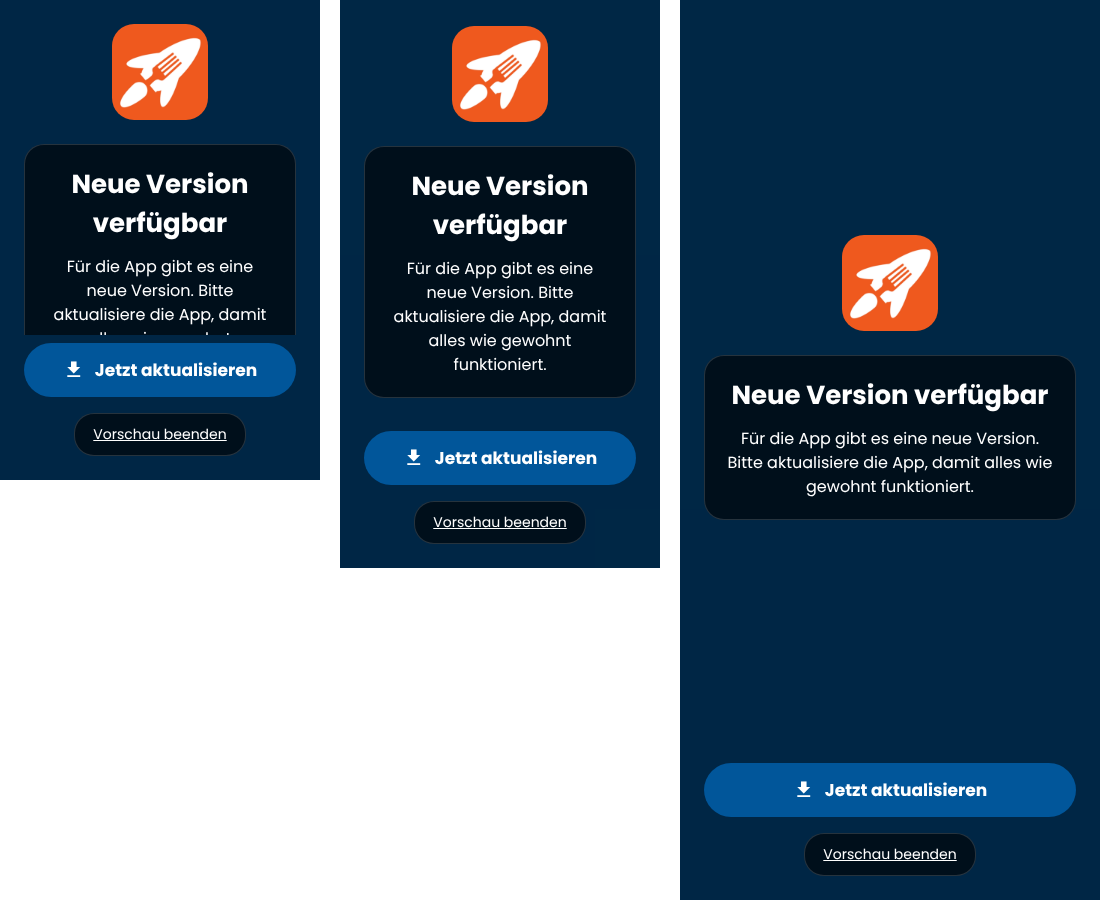
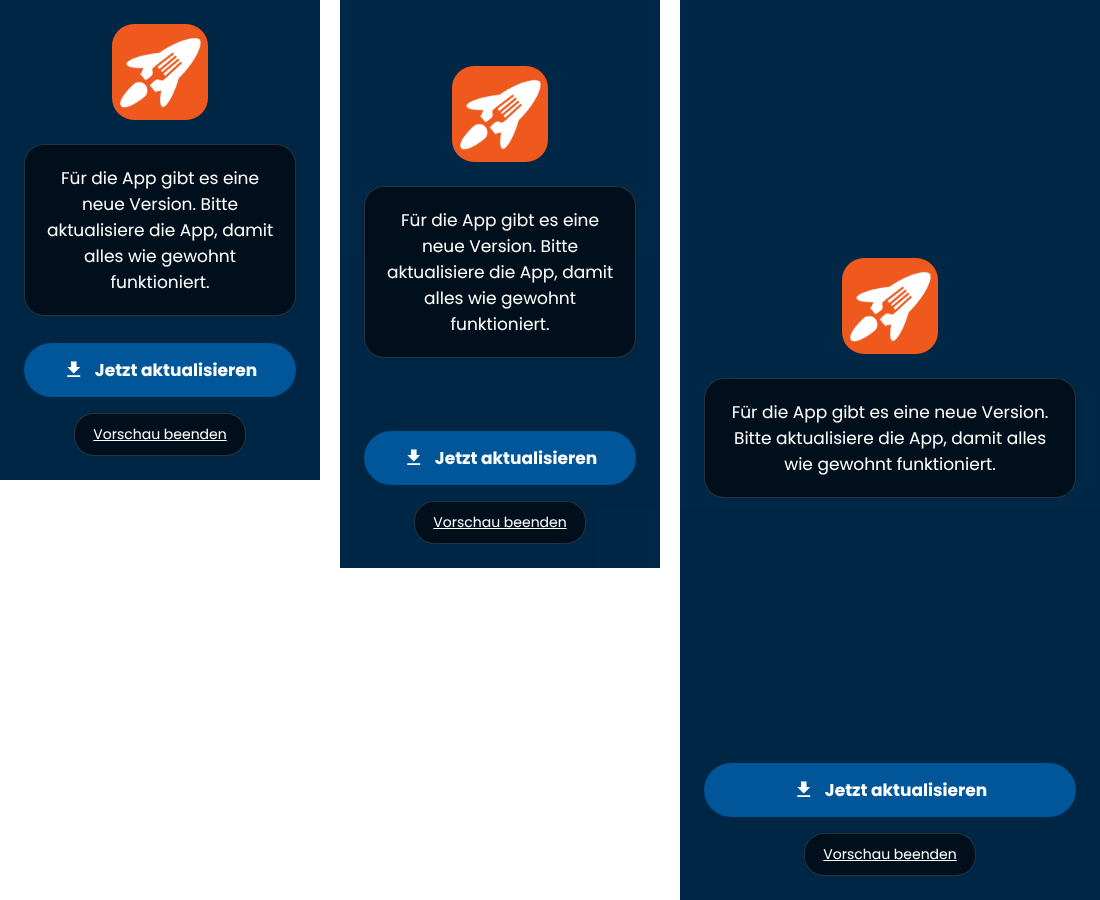
Outdated app notice without a heading
Only the message stays on the panel, slightly larger. The heading's
translation key app_outdated_title is gone. Without it the notice fits
completely on a 320x480 display.

Claude-Session: https://claude.ai/code/session_011iLKqujifqLmqzjLgMZRXE

Changed region(s): [[0.6182, 0.2489, 0.9891, 0.5911], [0.3091, 0.0311, 0.5873, 0.4667], [0.0, 0.1867, 0.2782, 0.3733]]

diff --git a/apps/frontend/app/components/AppOutdatedScreen/AppOutdatedScreen.tsx b/apps/frontend/app/components/AppOutdatedScreen/AppOutdatedScreen.tsx
@@ -69,7 +69,6 @@ export const AppOutdatedScreen = ({ visible, storeUrl, onClosePreview }: AppOutd
 					<View style={styles.content}>
 						<Image source={iconSource} style={styles.appIcon} />
 						<View style={styles.panel}>
-							<Text style={styles.title}>{translate(TranslationKeys.app_outdated_title)}</Text>
 							<Text style={styles.message}>{translate(TranslationKeys.app_outdated_message)}</Text>
 						</View>
 					</View>
@@ -141,16 +140,9 @@ const styles = StyleSheet.create({
 		borderColor: PANEL_BORDER_COLOR,
 		backgroundColor: PANEL_COLOR,
 	},
-	title: {
-		fontSize: 26,
-		fontFamily: 'Poppins_700Bold',
-		color: TEXT_COLOR,
-		textAlign: 'center',
-		marginBottom: 12,
-	},
 	message: {
-		fontSize: 16,
-		lineHeight: 24,
+		fontSize: 17,
+		lineHeight: 26,
 		fontFamily: 'Poppins_400Regular',
 		color: TEXT_COLOR,
 		textAlign: 'center',

diff --git a/apps/frontend/app/config.ts b/apps/frontend/app/config.ts
@@ -274,7 +274,8 @@ export function getVersionPatch() {
         //      canteen image), without the version line
         // 152: outdated app notice inside the safe area, store button pinned to the bottom,
         //      icon and text scroll above it on small displays
-        return 152;
+        // 153: outdated app notice without a heading, only the message on the panel
+        return 153;
 }
 
 export function getVersionInternalForAppsettingsScreen() {

diff --git a/apps/frontend/app/locales/keys.ts b/apps/frontend/app/locales/keys.ts
@@ -939,7 +939,6 @@ export const TranslationKeys = {
 	app_outdated_check_result: 'app_outdated_check_result',
 	app_outdated_show_preview: 'app_outdated_show_preview',
 	app_outdated_end_preview: 'app_outdated_end_preview',
-	app_outdated_title: 'app_outdated_title',
 	app_outdated_message: 'app_outdated_message',
 	app_outdated_update_now: 'app_outdated_update_now',
 	app_outdated_no_store_on_web: 'app_outdated_no_store_on_web',
